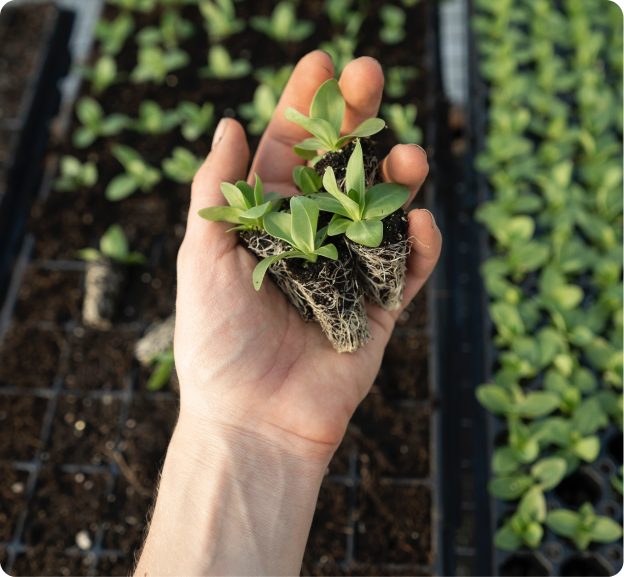
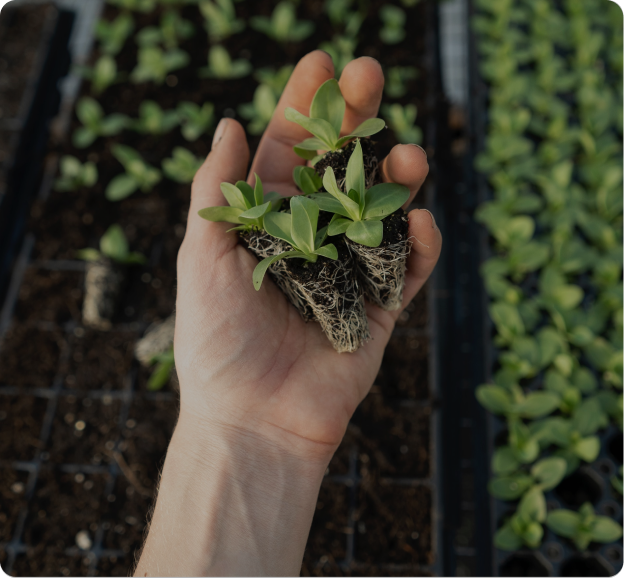
again changes

diff --git a/Project2/assets/css/project.css b/Project2/assets/css/project.css
@@ -174,13 +174,28 @@ nav{
 .links a{
     border-radius: 20px;
     transition: all 0.2s ease-in-out;
+    position: relative;
+}
+.links a::after{
+    content: '';
+    width: 0;
+    position: absolute;
+    height: 5px;
+    background-color: var(--primary-color);
+    bottom: 0;
+    left: 0;
+    transition: width 0.2s ease-in-out;
 }
 
-.navbar .links a:hover{
+.links a:hover::after{
+    width: 100%;
+}
+
+/* .navbar .links a:hover{
     background: var(--primary-color);
     color: white;
 
-}
+} */
 
 .navbar .links a{
     font-family: var(--font-regular);
@@ -791,7 +806,7 @@ img.wrapper1image1{
 
 .finalwrapper{
     position: relative;
-    margin-bottom: 178px;
+    margin-bottom: -10%;
 }
 
 .picturetext{
@@ -806,7 +821,7 @@ img.wrapper1image1{
     max-width: 1302px;
     height: 667px;
     color:  #fff;
-    margin-bottom: 233px;
+    /* margin-bottom: 233px; */
     mix-blend-mode: darken;
 }
 
@@ -855,8 +870,8 @@ h3{
     justify-content: center;
     align-items: center;
     grid-template-columns: repeat(4, 1fr);
-    position: absolute;
-    top: 75%;
+    position: relative;
+    top: -165px;
     left: 50%;
     transform: translate(-50%, 0); 
     border-radius: 12px;
@@ -888,8 +903,11 @@ h3{
         margin-bottom: 49px
     }
     .picturetext{
-        margin-bottom: 240px;
+        /* margin-bottom: 240px; */
         border-radius: 12px;
+    }
+    .finalwrapper{
+        margin-bottom: -10%;
     }
 }
 
@@ -898,7 +916,8 @@ h3{
         grid-template-columns: repeat(1, 1fr);
         padding: 71px 0 71px 0;
         max-width: 298px;
-        top: 286px;
+        top: -68px;
+        /* top: 286px; */
     }
     .plant.one,
     .plant.two,
@@ -906,7 +925,7 @@ h3{
         margin-bottom: 49px;
     }
     .picturetext{
-        margin-bottom: 643px;
+        /* margin-bottom: 643px; */
         height: 354px;
     }
     .leaf{
@@ -927,6 +946,9 @@ h3{
     }
     .picturetext p{
         display: none;
+    }
+    .finalwrapper{
+        margin-bottom: -10%;
     }
 }
 
